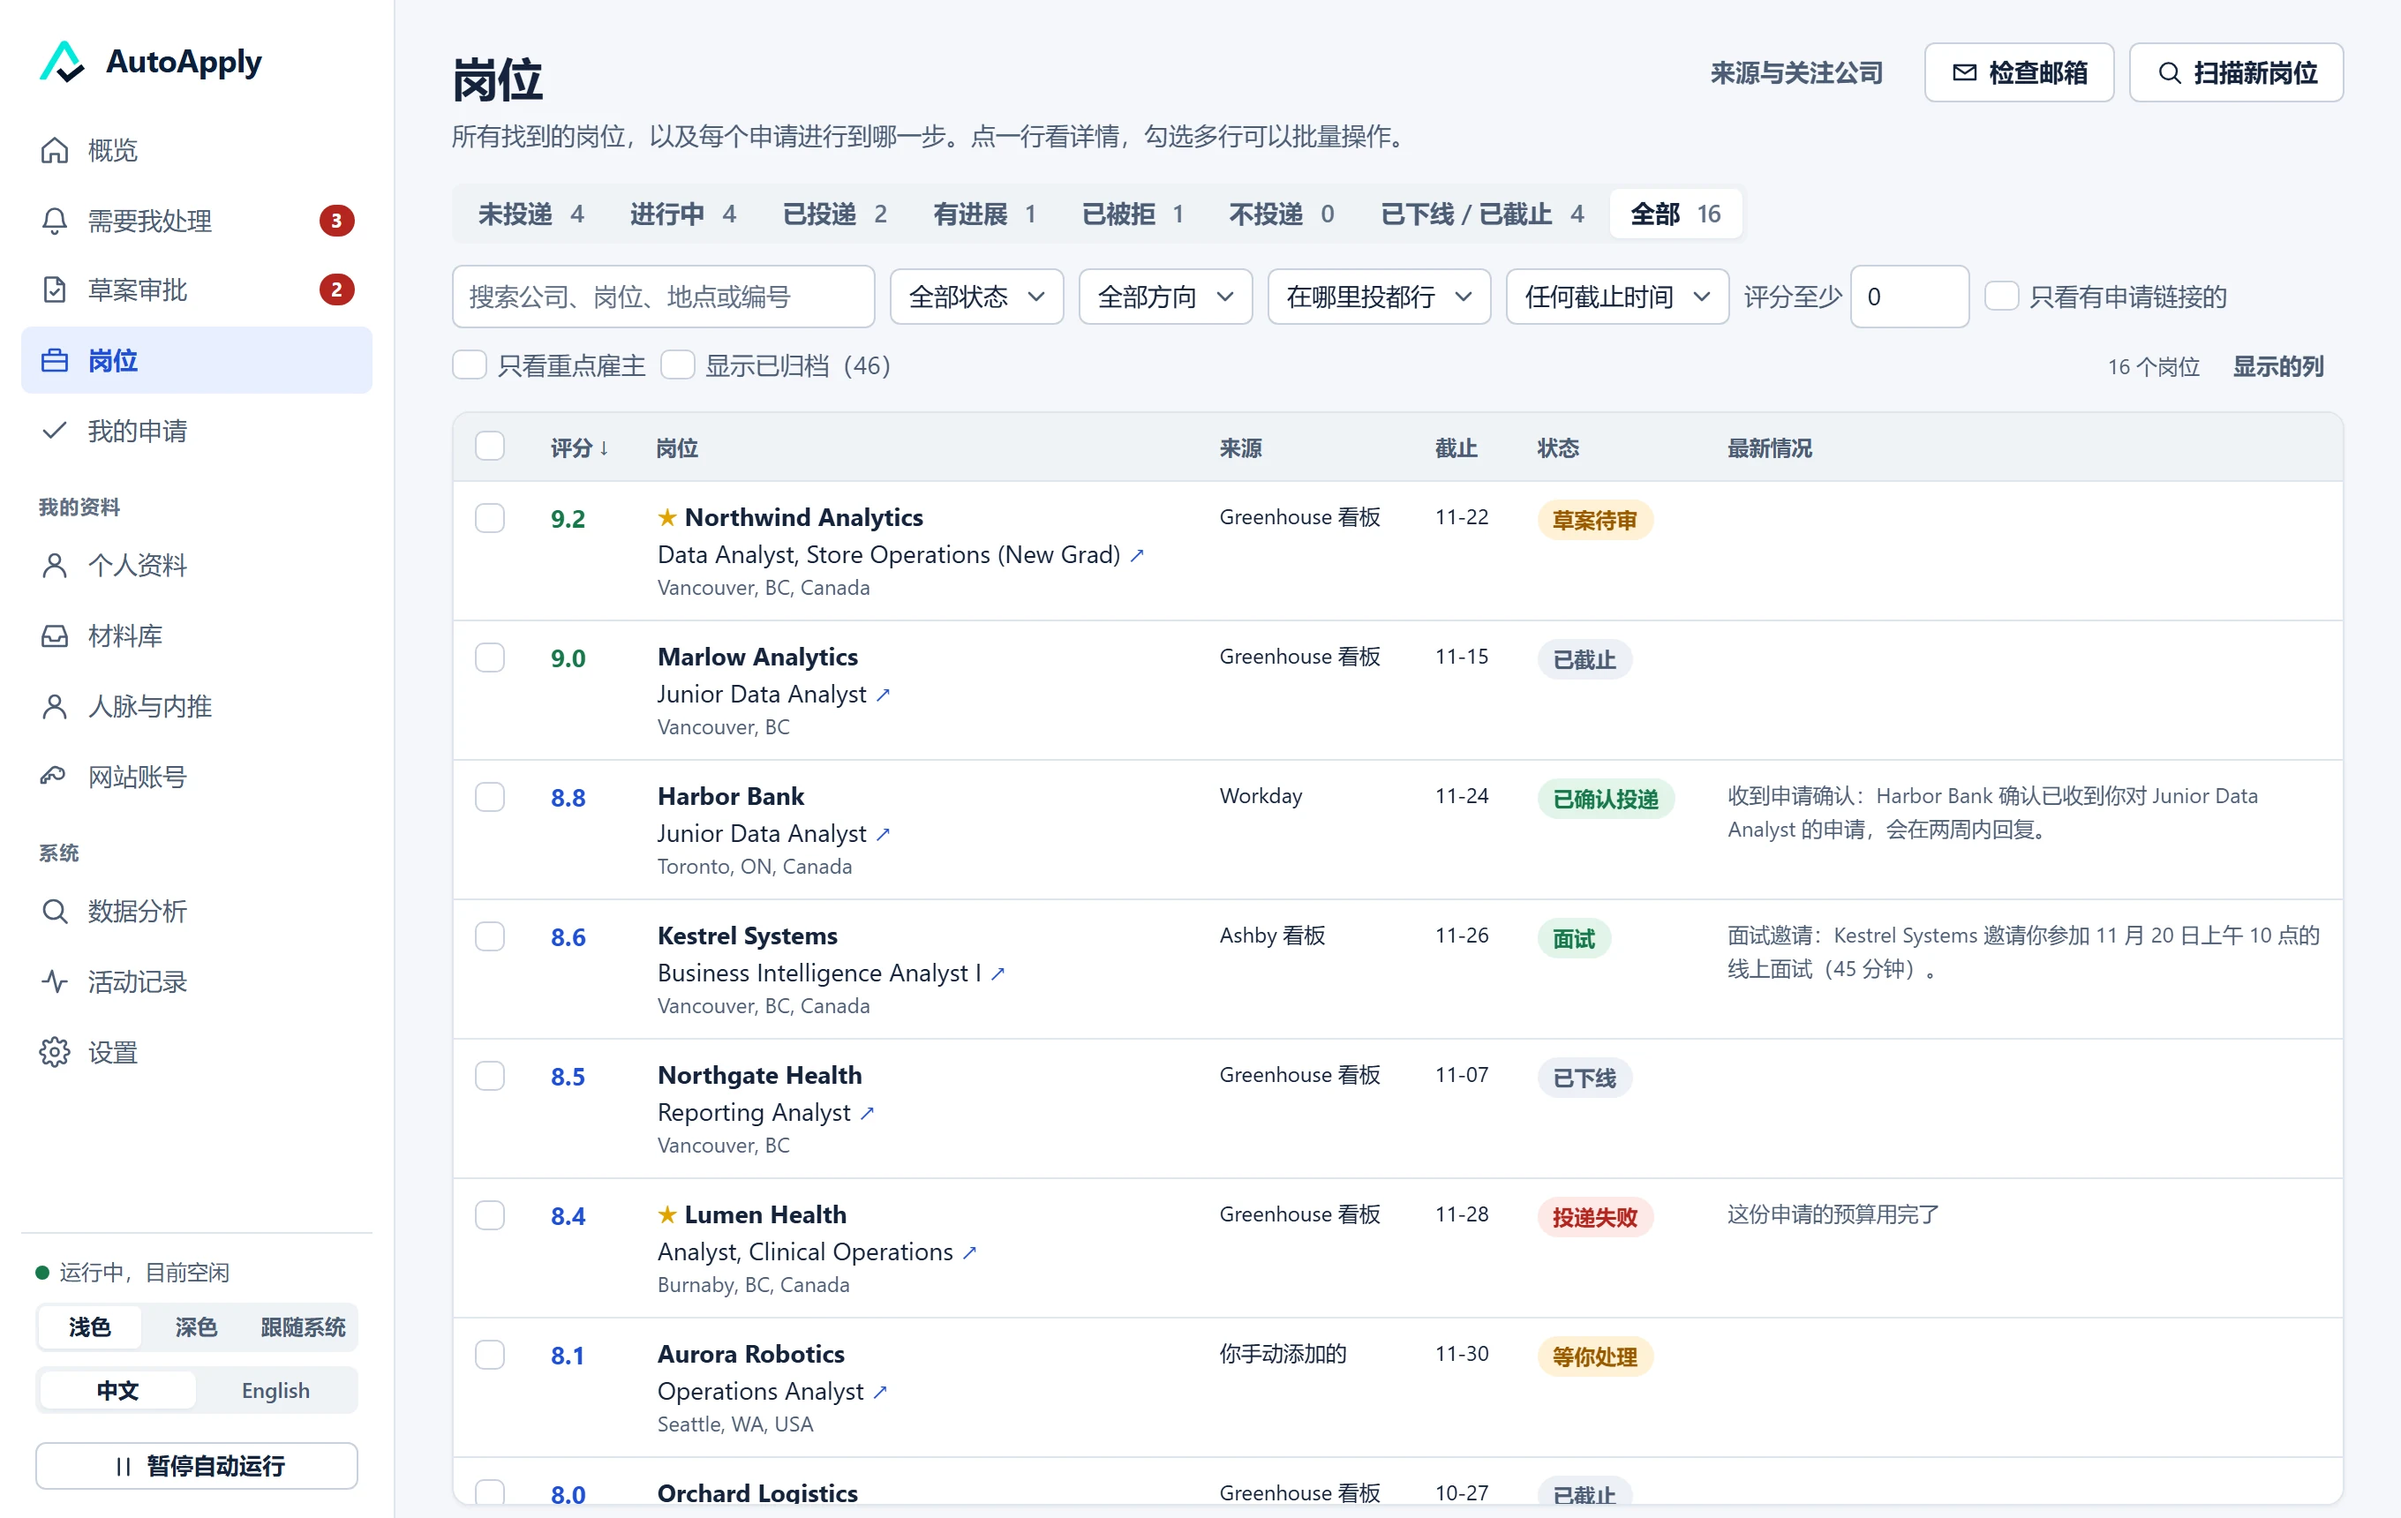
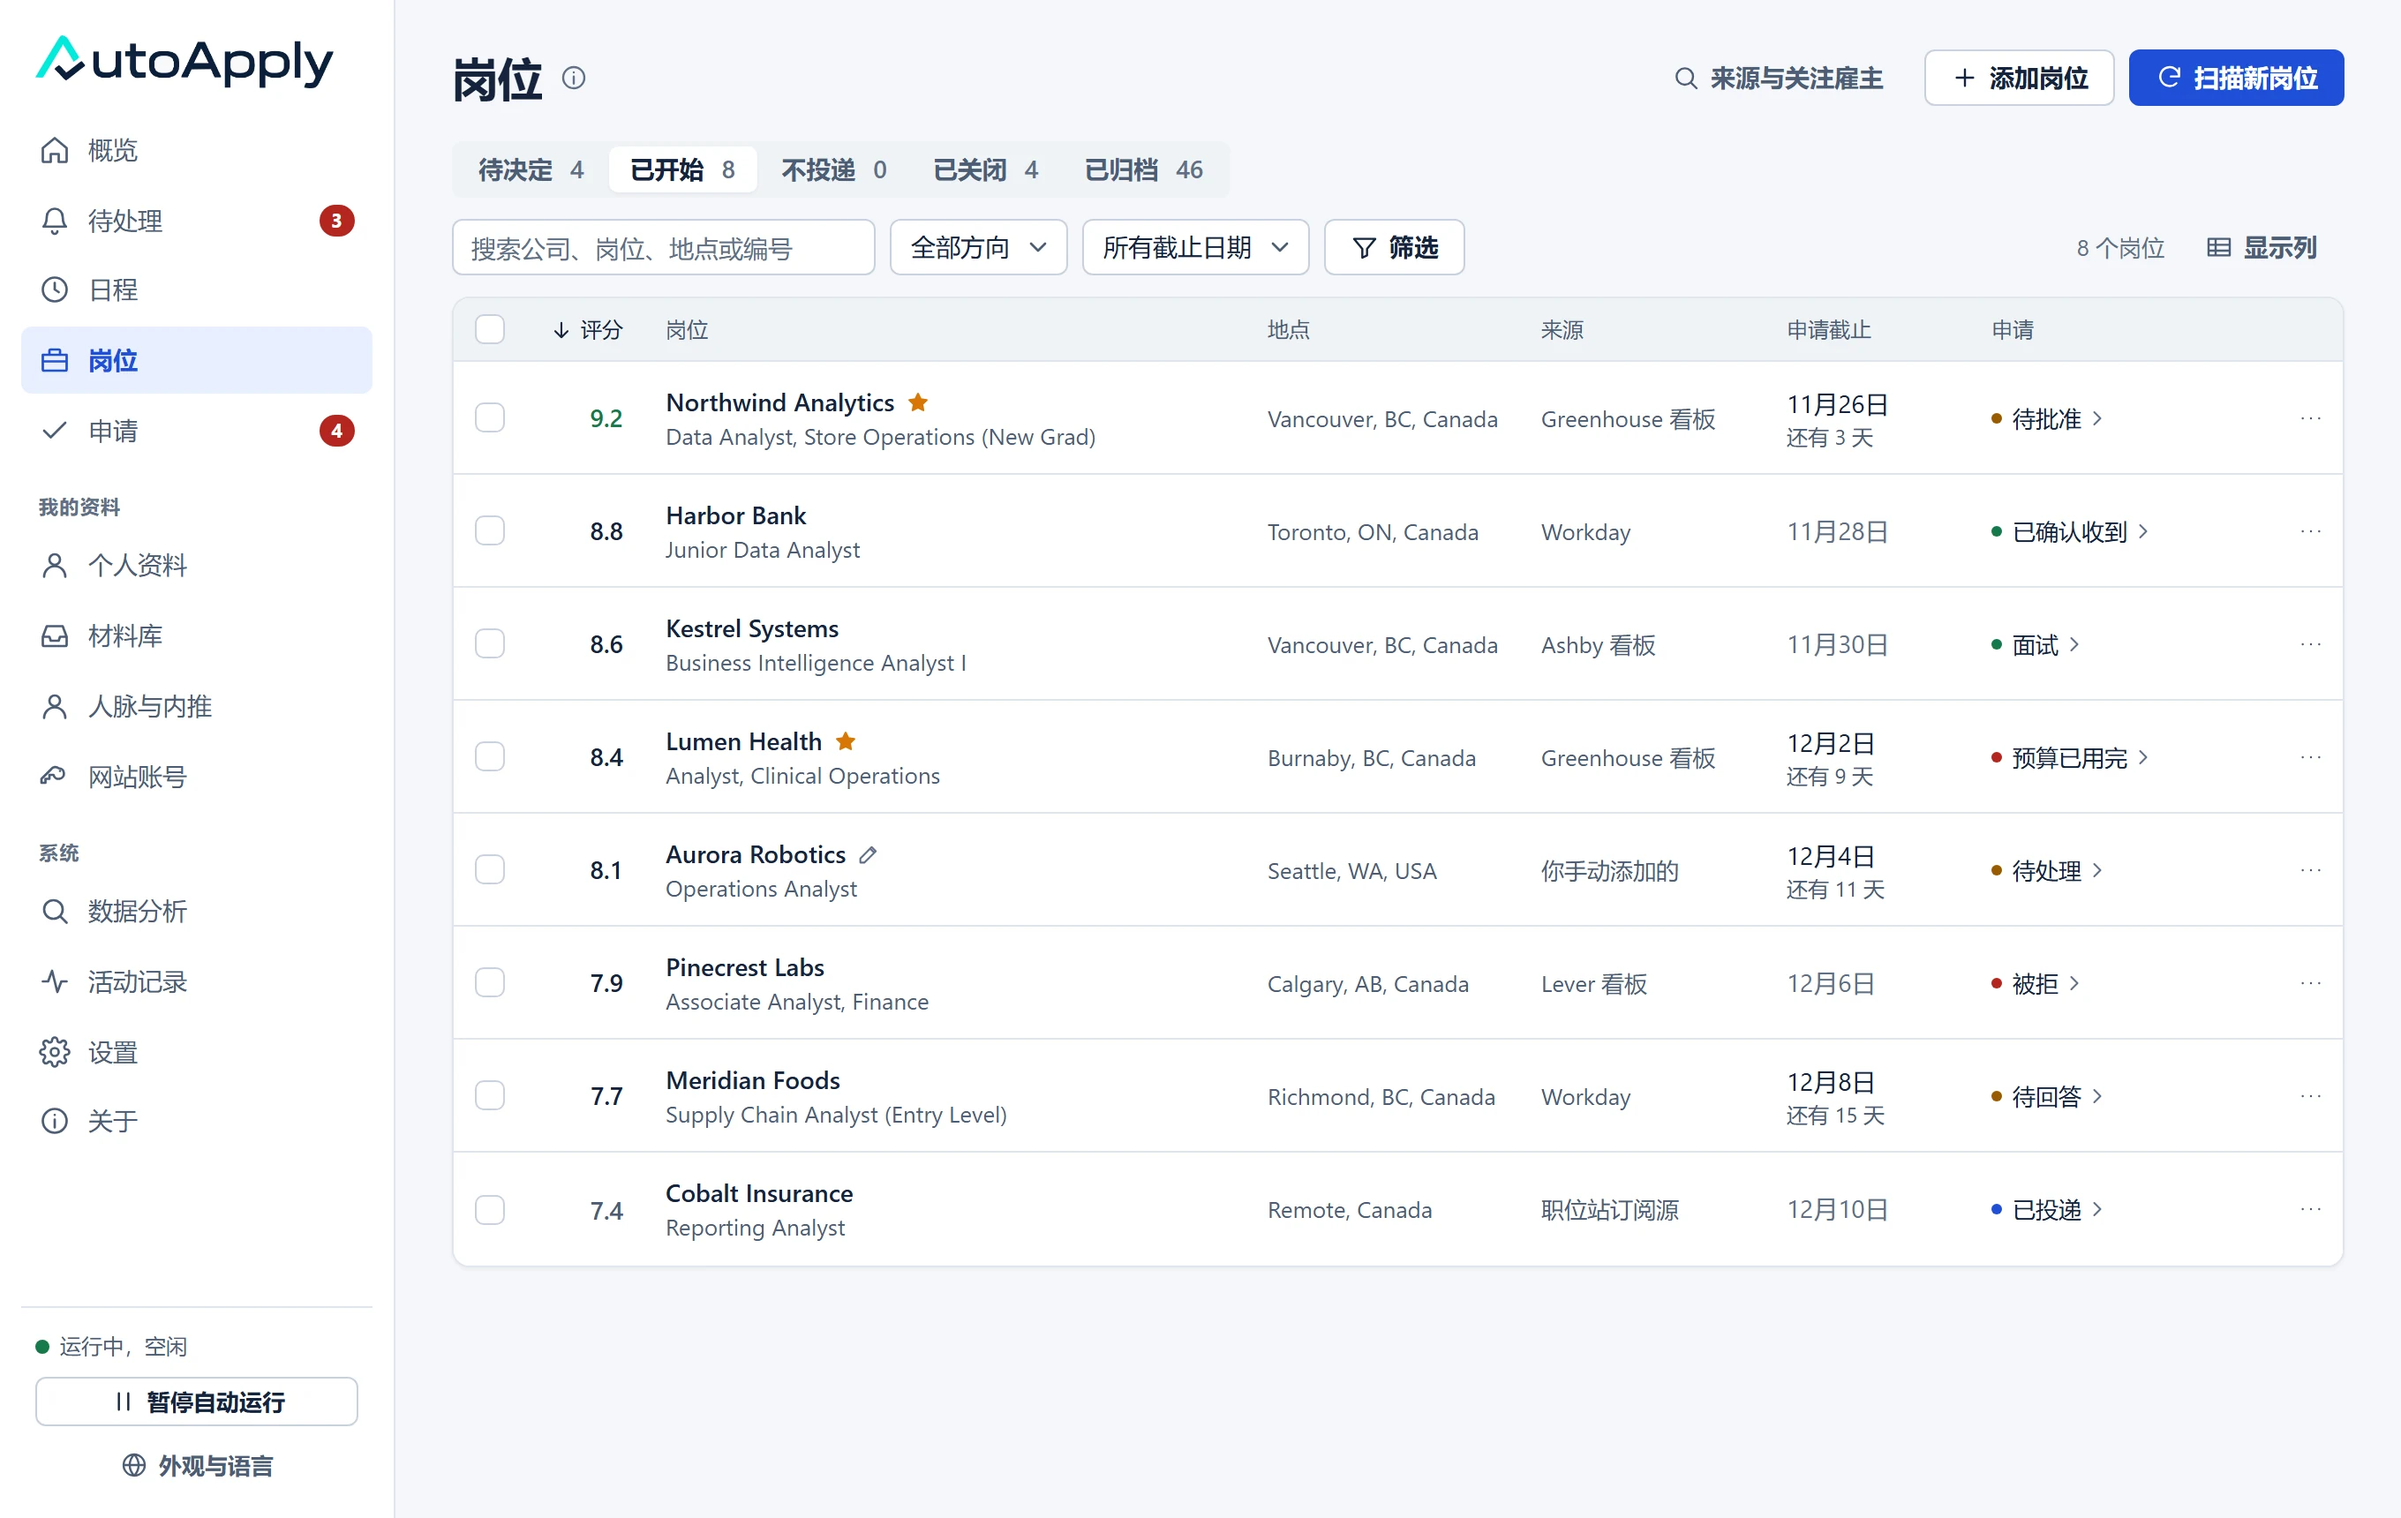
ui: contributor rules, changelog, README screenshots, contract additions

diff --git a/CHANGELOG.md b/CHANGELOG.md
@@ -4,6 +4,43 @@ All notable changes are recorded here. Versions follow [Semantic Versioning](htt
 
 ## [Unreleased]
 
+### Changed
+
+- **One design system for the whole interface.** Every page is rebuilt from the same shared pieces, so content no
+  longer decides layout. Lists are one kind of table: a column's width comes from its definition, never from the
+  longest value in it, every row has the same height, long names are cut with the whole text in a tooltip, and the
+  less important columns give way first when the window is narrow - the page itself never scrolls sideways. Buttons,
+  fields, selects and tabs of one level are the same height everywhere; an icon alone always has a name; rarely used
+  and destructive actions live in a row's menu instead of a red button on every row. The browser's own tooltips are
+  gone: one tooltip, one menu and one popover, with the keyboard, in both themes.
+- **Applications**: the next step is a short task ("Prepare for the interview", "Await reply") with whose move it is;
+  *Next event* shows the time and what it is (the calendar's words) instead of repeating the company and position;
+  the latest news is one line. **Postings** rows are one height, the score and the deadline line up.
+- **Site accounts**: one credential cell (dots and an eye, or "not saved" and a plus; a shown password hides itself
+  again after 30 seconds), and the states that were mixed up are said apart - the credential, the saved session (never
+  called "signed in": it is a saved session, with the latest date it can be valid to), and whether the program can
+  sign in by itself. A failure shows as a short state with its reason behind it; the technical detail is in the row's
+  details. Clearing a session, removing a saved password and deleting an account are three separate things in the
+  row's menu. The third-party sign-in cards share one structure and line up; a provider's settings are behind its menu.
+- **Wording**: concise product language in English, Chinese and French, one name per thing
+  (`docs/ux-writing-glossary.md`); long subtitles and helper paragraphs went behind an (i) or were removed, keeping
+  what is needed to decide and every safety statement. Dates are written one way everywhere.
+- Documentation for contributors: `docs/component-guidelines.md`, `docs/ux-writing-glossary.md`,
+  `docs/ui-quality-assurance.md`, `docs/ui-ux-audit.md`; a UI lab at `/ui-lab` shows every shared component in its
+  states.
+
+### Fixed
+
+- **A calendar item's time on the applications page was read as UTC**: an interview at 10:00 showed as 18:00 (or
+  03:00), eight hours off the calendar. It is the same wall-clock time everywhere now, whatever the time zone of the
+  browser; the day of an outcome and the name of an exported file use the local day too.
+- **An information request that had been answered was still shown as the application's next event.** What is done is
+  not next.
+- A row's menu could close the moment it opened when it was pressed right after scrolling.
+- Deleting several files for good is asked about as the dangerous thing it is; so is withdrawing several applications.
+- Text the program kept before 2.0.2 is still recognised after this release's rewording (the wording of 2.0.2 is kept
+  for that).
+
 ## [2.0.2] - 2026-11-22
 
 2.0.2 brings what was planned for 2.0.1 and 2.0.2 in one release: a calendar with reminders and a feed for your calendar app; the cards on Telegram and Discord with the buttons that deal with them, and an assistant in the chat; one page per application; the program in English, Chinese and French; and updates from inside the program.

diff --git a/docs/component-guidelines.md b/docs/component-guidelines.md
@@ -194,7 +194,8 @@ Nothing (no `text`, no slot) shows nothing.
 ]" />
 ```
 
-Which part of a page is shown. Props: `items` (`{ id, label, count?, disabled? }`), `modelValue` (the selected id),
+Which part of a page is shown. Props: `items` (`{ id, label, count?, disabled?, icon?, dot? }` - `icon` before the
+label; `dot` marks a tab that holds changes not saved yet, said to a screen reader too), `modelValue` (the selected id),
 `label` (required: the row's accessible name), `id` (tabs get ids `<id>-<item id>`, so a panel can say
 `role="tabpanel" :aria-labelledby="'<id>-' + tab"`), `controls` (the panel's id: `aria-controls` on the selected tab).
 Emits `update:modelValue`.
@@ -287,6 +288,8 @@ everywhere they appear (`calendar.js FAMILY`, `views/calendar/look.js`).
   `sub?` / slot `sub` (a line under the title: only what the reader must know to decide something here - most pages
   have none). Default slot: the page's actions, secondary first, the primary one last. The keyboard lands on its `h2`
   after a change of page.
+  A title too long for its line is cut to one line with the whole of it in a tooltip (an application's company and
+  position); a link back to the list the page belongs to sits under the title and names that list.
 - `SectionHead` - `title`, `help?`, `count?`; default slot: the section's actions (at the right). Not used inside a card.
 - `CardHead` - `title` (required; a `Trunc`, cut, never squeezed), `help?` (through `HelpPop`, so a sentence is a
   tooltip and more is a popover; or slot `help` for several paragraphs / a link), `note?` (a plain figure or fact after
@@ -330,6 +333,19 @@ itself. One structure whatever is known, so cards side by side line up row by ro
 (i), the session as a `Status`), three facts that are always there (`—` when empty), foot (one main action - primary
 when there is no session - and a `Menu`: settings, forget the session, and for an added provider remove, `danger`). The
 rarely set settings open in a `Popover` from the menu item.
+
+## Dates, lists and messages
+
+- One way to write a date (`src/i18n/format.js`): a day is "Nov 20" / "11月20日", with the year only when it is not this
+  year; something scheduled (a deadline, an interview, a reminder) is the day and the time; something that happened (a
+  mail, a run, a change) is relative while it is recent ("Today 13:52", "Yesterday 09:30"), then the day and the time.
+  Short numeric dates ("11/20") are for chart axes only. A time the server gives as local wall-clock text (the
+  calendar's items, a deadline) is read with `at()` from `src/calendar.js`, never through `asDate()` (which reads UTC).
+- Several things in one sentence are joined with `listed()` (Intl.ListFormat), not with typed commas.
+- A toast says what came of an action; while the `BulkBar` is shown, toasts rise above it - they never cover its buttons.
+- Density: two-line entities are `comfortable`; one-line lists and tables inside cards are `standard`; logs and figure
+  tables are `compact`. The compact figure tables of the analysis page (`.an-table`) keep their own markup: fixed
+  columns, one-line headers (the long form in a tooltip), numbers right-aligned.
 
 ## Words
 

diff --git a/CONTRIBUTING.md b/CONTRIBUTING.md
@@ -98,6 +98,30 @@ from the applicant's profile. Add the country to `COUNTRY_PATTERNS` in `intake.p
 File: `backend/autoapply/mailbox.py`, `PRESETS`: IMAP host, port, and a `how` text telling the user where to get an
 app password. Mail must stay read-only: folders are opened read-only and bodies fetched with `BODY.PEEK[]`.
 
+## Change the interface
+
+The interface is built from shared pieces with fixed behaviour, so that content never decides layout: a long name is
+cut, not allowed to stretch a column; every row of a list has one height; a tooltip looks the same everywhere. Before
+adding or changing a page, read `docs/component-guidelines.md` (start with its ten "Rules for a new page") and
+`docs/ux-writing-glossary.md` for the words. In short:
+
+- A list of records is a `DataTable` with cells; long text is `Trunc`; hover help is `v-tip` / `InfoTip` - never a
+  hand-made `<table>` for records, never `title="…"`.
+- One visible action per row or card, the rest in a `Menu`; delete is last, `danger`, and confirmed.
+- Only tokens from `frontend/src/style.css`: no colours, font sizes or z-index numbers of your own. Light and dark.
+- Every word is a key, concise and in the glossary's terms, in English, Chinese and French
+  (`python frontend/scripts/i18n-apply.py patch.json`).
+- A new shared component gets a section in the UI lab (`/ui-lab`) and a paragraph in the guidelines.
+
+What checks it: `npm test` in `frontend/` (static rules: no native tooltip, no stray colour, no unnamed icon button,
+no hand-made record table; the pure layout functions) and `uv run pytest tests/test_ui_layout.py tests/test_ui_pages.py`
+(a real browser measures the lab and every page: row heights, column widths, overflow, names, three window sizes,
+three languages, both themes). `docs/ui-quality-assurance.md` says how to run them, how to take before / after
+screenshots (`scripts/ui_shots.py`) and what still has to be looked at by hand (zoom, text scaling, touch).
+
+To work on a page against made-up data: `python scripts/demo.py --serve 8022`, then in `frontend/`
+`npx vite --config vite.demo.config.js` (never develop against a real installation's data).
+
 ## Add or fix a translation
 
 Everything the program shows is written with keys, in English, with a note for translators on each; a language is a

diff --git a/docs/ui-ux-audit.md b/docs/ui-ux-audit.md
@@ -11,8 +11,8 @@ sideways, column widths, elements with a native `title`, groups of controls that
 lines, elements wider than their parent, sizes and weights of type, heights of controls. The demo has no site accounts and no
 contacts, so those two lists were measured with made-up rows put in by request interception (five accounts in different states, five
 identity providers, three contacts); every other figure is from the demo's own data. Nothing was written to the demo. The dark
-theme gave the same measurements as the light one and no finding of its own beyond G22; screenshots and the scripts are in the
-audit's scratch folder (`scratchpad/ui/audit/`).
+theme gave the same measurements as the light one and no finding of its own beyond G22. The screenshots and scripts of the audit
+were working files and are not kept in the repository; `scripts/ui_shots.py` takes the same kind of screenshots.
 
 Severity: **P0** wrong information, or the layout breaks (content cut off, the page scrolls sideways, text one character wide);
 **P1** visible on ordinary data on every visit, or blocks keyboard / touch use; **P2** inconsistency and polish.

diff --git a/.github/PULL_REQUEST_TEMPLATE.md b/.github/PULL_REQUEST_TEMPLATE.md
@@ -9,7 +9,7 @@
 <!-- Say what you ran it against. "Unit tests" and "a real Greenhouse form, not submitted" are both fine answers; they are different answers. -->
 
 - [ ] `uv run pytest` passes
-- [ ] If the interface changed: `cd frontend && npm run build`, and new text is written with keys (English, notes; see CONTRIBUTING)
+- [ ] If the interface changed: `cd frontend && npm test && npm run build`; it uses the shared components (`docs/component-guidelines.md`), new text is written with keys in the glossary's terms, and it was looked at in light and dark, at 1440 and 1024 wide, in two languages
 - [ ] If behaviour that `docs/STATUS.md` describes changed: that page is updated
 - [ ] Nothing personal in the diff, the screenshots or the test data (names, e-mail addresses, application records)
 
